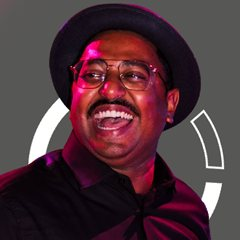
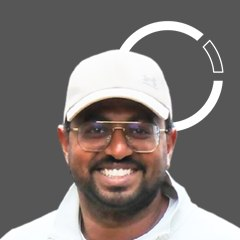
Team: new Nishaanth photo, add Marcel profile, admin-only contacts toggle; schedule reveal

diff --git a/src/ScheduleTab.jsx b/src/ScheduleTab.jsx
@@ -2,9 +2,12 @@ import React, { useState, useRef, useEffect } from 'react';
 import {
   Calendar, Clock, MapPin, PlaneTakeoff, PlaneLanding, CalendarDays, Bus,
   Utensils, Landmark, Plus, Edit3, Check, X, Trash2, Download, ArrowRight,
-  ChevronLeft, ChevronRight, ChevronDown, QrCode, BookOpen, ImagePlus, Loader2, Lightbulb,
+  ChevronLeft, ChevronRight, ChevronDown, QrCode, BookOpen, ImagePlus, Loader2, Lightbulb, Eye, EyeOff,
 } from 'lucide-react';
-import { C, MONO, TRIP_DAYS, TYPE_META, evDate, fmtDayLong, fmtDayShort, downloadICS, mapsUrl } from './constants.js';
+import {
+  C, MONO, TRIP_DAYS, TYPE_META, evDate, fmtDayLong, fmtDayShort, downloadICS, mapsUrl,
+  isRevealed, taipeiInputToIso, isoToTaipeiInput, fmtRevealAt,
+} from './constants.js';
 import { Label, AppOverlay } from './shell.jsx';
 import { downscaleImage } from './lib/image.js';
 
@@ -121,6 +124,9 @@ export function ScheduleEventModal({ initial, defaultDate, docs = [], onSave, on
   const [sponsorLogo, setSponsorLogo] = useState(initial?.sponsorLogo ? { url: initial.sponsorLogo } : null);
   const [factText, setFactText] = useState(initial?.factText || "");
   const [factImage, setFactImage] = useState(initial?.factImage ? { url: initial.factImage } : null);
+  // Sichtbarkeit: 'now' = sofort, 'at' = ab Zeitpunkt (Taiwan-Zeit), 'manual' = bis zur Freigabe versteckt
+  const [visibility, setVisibility] = useState(initial?.hidden ? "manual" : initial?.revealAt ? "at" : "now");
+  const [revealInput, setRevealInput] = useState(isoToTaipeiInput(initial?.revealAt));
   const [saving, setSaving] = useState(false);
   const [saveError, setSaveError] = useState(null);
   const input = { background: `${C.charcoal}4d`, borderColor: `${C.charcoal}80` };
@@ -146,7 +152,10 @@ export function ScheduleEventModal({ initial, defaultDate, docs = [], onSave, on
       factImage: factImage && !factImage.file ? factImage.url : undefined,
       factImagePath: factImage && !factImage.file ? initial?.factImagePath : undefined,
       factImageFile: factImage?.file,
+      hidden: visibility === "manual",
+      revealAt: visibility === "at" ? taipeiInputToIso(revealInput) : undefined,
     };
+    if (visibility === "at" && !ev.revealAt) { setSaveError("Bitte eine Freigabezeit wählen."); return; }
     setSaving(true);
     setSaveError(null);
     try {
@@ -245,6 +254,30 @@ export function ScheduleEventModal({ initial, defaultDate, docs = [], onSave, on
           <ImagePickField label="Fakt-Bild (optional)" value={factImage} onChange={setFactImage}
             prepare={(f) => downscaleImage(f, 1600, 0.85)}
             previewClass="w-12 h-16" previewStyle={{ background: "#000" }} />
+
+          <div className="space-y-1.5">
+            <p style={{ color: C.silver, fontFamily: MONO, letterSpacing: "0.15em" }} className="text-[12px] font-bold uppercase">Sichtbar für Reisende</p>
+            <div className="grid grid-cols-3 gap-1.5">
+              {[["now", "Sofort"], ["at", "Ab Zeitpunkt"], ["manual", "Manuell"]].map(([v, l]) => (
+                <button key={v} type="button" onClick={() => {
+                  setVisibility(v);
+                  if (v === "at" && !revealInput) setRevealInput(`${date}T${time}`);
+                }}
+                  style={visibility === v ? { background: C.gold, color: "#fff" } : { background: `${C.charcoal}4d`, color: C.silver }}
+                  className="py-2 rounded-xl text-[12px] font-black uppercase active:scale-95 transition">{l}</button>
+              ))}
+            </div>
+            {visibility === "at" && (
+              <>
+                <input type="datetime-local" value={revealInput} onChange={(e) => setRevealInput(e.target.value)} style={input}
+                  className="w-full border rounded-xl px-3 py-2.5 text-sm text-white focus:outline-none" />
+                <p style={{ color: C.silver }} className="text-[13px]">Uhrzeit in Taiwan-Zeit. Vorher nur für Admins sichtbar.</p>
+              </>
+            )}
+            {visibility === "manual" && (
+              <p style={{ color: C.silver }} className="text-[13px]">Bleibt versteckt, bis du am Termin „Jetzt freigeben“ tippst.</p>
+            )}
+          </div>
         </div>
 
         {saveError && <p className="text-sm" style={{ color: "#e57373" }}>{saveError}</p>}
@@ -267,8 +300,22 @@ export function ScheduleEventModal({ initial, defaultDate, docs = [], onSave, on
   );
 }
 
-export function ScheduleTab({ schedule, docs = [], onOpenDoc, isAdmin = false, onAddEvent, onUpdateEvent, onDeleteEvent }) {
+export function ScheduleTab({ schedule, docs = [], onOpenDoc, isAdmin = false, onAddEvent, onUpdateEvent, onDeleteEvent, onRevealEvents }) {
   const [day, setDay] = useState(0);
+  // Uhr für den Versteckt-Status in der Admin-Ansicht (Freigabezeit kann jederzeit verstreichen)
+  const [now, setNow] = useState(Date.now());
+  useEffect(() => {
+    const t = setInterval(() => setNow(Date.now()), 30000);
+    return () => clearInterval(t);
+  }, []);
+  const [revealing, setRevealing] = useState(false);
+  const reveal = async (ids, label) => {
+    if (revealing || !window.confirm(`${label} jetzt für alle Reisenden freigeben?`)) return;
+    setRevealing(true);
+    try { await onRevealEvents(ids); }
+    catch (e) { console.warn('[schedule]', e?.message); window.alert("Freigeben fehlgeschlagen. Bitte Verbindung prüfen."); }
+    finally { setRevealing(false); }
+  };
   const [editing, setEditing] = useState(null); // null | { mode: 'add'|'edit', event? }
   const [menuEvent, setMenuEvent] = useState(null); // Termin, dessen Menükarte offen ist
   const [factId, setFactId] = useState(null); // Termin, dessen Fakten-Box aufgeklappt ist
@@ -283,7 +330,9 @@ export function ScheduleTab({ schedule, docs = [], onOpenDoc, isAdmin = false, o
   };
   const date = TRIP_DAYS[day];
   const events = schedule.filter((e) => e.date === date).sort((a, b) => evDate(a) - evDate(b));
-  const nextId = [...schedule].sort((a, b) => evDate(a) - evDate(b)).find((x) => evDate(x) > Date.now())?.id;
+  const hiddenToday = events.filter((e) => !isRevealed(e, now));
+  // NEXT so markieren, wie Reisende es sehen — versteckte Termine zählen nicht
+  const nextId = [...schedule].filter((x) => isRevealed(x, now)).sort((a, b) => evDate(a) - evDate(b)).find((x) => evDate(x) > now)?.id;
   return (
     <div className="fadeup p-4 pb-6 space-y-5 select-none relative" onPointerDown={onDown} onPointerUp={onUp} style={{ touchAction: "pan-y" }}>
       <div className="border-b pb-4 space-y-3" style={{ borderColor: `${C.charcoal}33` }}>
@@ -323,6 +372,23 @@ export function ScheduleTab({ schedule, docs = [], onOpenDoc, isAdmin = false, o
         ))}
       </div>
 
+      {isAdmin && hiddenToday.length > 0 && (
+        <div style={{ background: `${C.charcoal}33`, borderColor: `${C.charcoal}80` }}
+          className="border border-dashed rounded-xl px-3.5 py-2.5 flex items-center justify-between gap-3">
+          <p style={{ color: C.silver }} className="text-sm flex items-center gap-2">
+            <EyeOff className="w-4 h-4 shrink-0" />
+            {hiddenToday.length === 1 ? "1 Termin" : `${hiddenToday.length} Termine`} für Reisende versteckt
+          </p>
+          {hiddenToday.length > 1 && (
+            <button onClick={() => reveal(hiddenToday.map((e) => e.id), `Alle ${hiddenToday.length} versteckten Termine von ${fmtDayShort(date)}`)}
+              disabled={revealing} style={{ color: C.gold, letterSpacing: "0.1em" }}
+              className="text-[12px] font-black uppercase shrink-0 hover:underline active:scale-95 transition disabled:opacity-50">
+              Alle freigeben
+            </button>
+          )}
+        </div>
+      )}
+
       {/* Timeline for the day */}
       <div key={`list-${date}`} className="space-y-3 fadeup">
         {events.length === 0 && (
@@ -340,9 +406,10 @@ export function ScheduleTab({ schedule, docs = [], onOpenDoc, isAdmin = false, o
           const meta = TYPE_META[e.type] || TYPE_META.activity;
           const Icon = meta.icon;
           const isNext = e.id === nextId;
+          const isHidden = !isRevealed(e, now);
           return (
-            <div key={e.id} style={{ background: C.surface, borderColor: isNext ? `${C.gold}80` : `${C.charcoal}4d` }}
-              className={`border rounded-2xl p-4 flex gap-3.5 ${isNext ? "border-2" : ""}`}>
+            <div key={e.id} style={{ background: C.surface, borderColor: isNext ? `${C.gold}80` : `${C.charcoal}${isHidden ? "99" : "4d"}` }}
+              className={`border rounded-2xl p-4 flex gap-3.5 ${isNext ? "border-2" : ""} ${isHidden ? "border-dashed" : ""}`}>
               <div className="flex flex-col items-center shrink-0">
                 <span style={{ fontFamily: MONO, color: C.gold }} className="text-sm font-black">{e.time}</span>
                 <div style={{ background: `${C.gold}1a`, borderColor: `${C.gold}40` }} className="w-11 h-11 rounded-xl border flex items-center justify-center mt-1.5">
@@ -363,6 +430,20 @@ export function ScheduleTab({ schedule, docs = [], onOpenDoc, isAdmin = false, o
                     )}
                   </div>
                 </div>
+                {isAdmin && isHidden && (
+                  <div className="mt-2 flex items-center gap-2 flex-wrap">
+                    <span style={{ background: `${C.charcoal}4d`, color: C.silver, letterSpacing: "0.08em" }}
+                      className="text-[12px] font-bold uppercase px-2 py-1 rounded-lg flex items-center gap-1.5">
+                      <EyeOff className="w-3.5 h-3.5" />
+                      {e.hidden ? "Versteckt · manuell" : `Versteckt bis ${fmtRevealAt(e.revealAt)} (TW)`}
+                    </span>
+                    <button onClick={() => reveal([e.id], `„${e.title}“`)} disabled={revealing}
+                      style={{ background: `${C.gold}1a`, borderColor: `${C.gold}40`, color: C.gold, letterSpacing: "0.1em" }}
+                      className="px-2.5 py-1 rounded-lg border text-[12px] font-black uppercase flex items-center gap-1.5 active:scale-95 transition disabled:opacity-50">
+                      <Eye className="w-3.5 h-3.5" /> Jetzt freigeben
+                    </button>
+                  </div>
+                )}
                 {e.location && (
                   <a href={mapsUrl(e.location)} target="_blank" rel="noopener noreferrer" style={{ color: C.silver }}
                     className="text-sm mt-1 flex items-center gap-1.5 underline decoration-dotted underline-offset-2 hover:text-white active:opacity-70">

diff --git a/src/App.jsx b/src/App.jsx
@@ -5,7 +5,7 @@ import {
 import {
   INITIAL_TRAVELERS, INITIAL_MESSAGES, INITIAL_PHOTOS, INITIAL_SCHEDULE,
   INITIAL_DOCS, INITIAL_HOME_TILES, INITIAL_TICKER, TILE_TEMPLATES,
-  evDate, fmtDayShort, conciergeReply, C,
+  evDate, fmtDayShort, conciergeReply, C, isRevealed,
 } from './constants.js';
 import { usePersistentState, loadValue, saveValue, removeValue, clearAll } from './storage.js';
 import {
@@ -107,7 +107,9 @@ export default function App() {
   const { data: broadcastNotifications, loading: broadcastsLoading } = useCollection('notifications', { orderBy: 'created_at', ascending: false });
 
   const [scheduleLocal, setScheduleLocal] = usePersistentState('schedule', INITIAL_SCHEDULE);
-  const { data: scheduleRemote } = useCollection('schedule', { orderBy: 'date' });
+  // pollMs: zeitgesteuert freigegebene Termine erzeugen kein Realtime-Event (die Zeile
+  // ändert sich nicht, nur RLS lässt sie ab reveal_at durch) — daher minütlich nachladen.
+  const { data: scheduleRemote } = useCollection('schedule', { orderBy: 'date', pollMs: 60000 });
   const schedule = isSupabaseConfigured
     ? scheduleRemote.map((e) => ({
         id: e.id, date: e.date, time: (e.time || '').slice(0, 5), title: e.title, location: e.location || undefined, type: e.type, docId: e.doc_id || undefined,
@@ -116,6 +118,7 @@ export default function App() {
         sponsorLogoPath: e.sponsor_logo_path || undefined, sponsorLogo: e.sponsor_logo_path ? getPublicUrl('photos', e.sponsor_logo_path) : undefined,
         factText: e.fact_text || undefined,
         factImagePath: e.fact_image_path || undefined, factImage: e.fact_image_path ? getPublicUrl('photos', e.fact_image_path) : undefined,
+        hidden: !!e.hidden, revealAt: e.reveal_at || undefined,
       }))
     : scheduleLocal;
 
@@ -527,7 +530,16 @@ export default function App() {
     date: ev.date, time: ev.time, title: ev.title, location: ev.location || null, type: ev.type, doc_id: ev.docId || null,
     menu_path: ev.menuPath || null, sponsor_name: ev.sponsorName || null, sponsor_logo_path: ev.sponsorLogoPath || null,
     fact_text: ev.factText || null, fact_image_path: ev.factImagePath || null,
+    hidden: !!ev.hidden, reveal_at: ev.revealAt || null,
   });
+  // „Jetzt freigeben“ für einen oder mehrere Termine (z.B. ganzer Tag)
+  const revealEvents = async (ids) => {
+    if (isSupabaseConfigured) {
+      await Promise.all(ids.map((id) => updateRow('schedule', id, { hidden: false, reveal_at: null })));
+      return;
+    }
+    setScheduleLocal((s) => s.map((x) => (ids.includes(x.id) ? { ...x, hidden: false, revealAt: undefined } : x)));
+  };
   // Ersetzte oder entfernte Bilder aus dem Storage löschen
   const removeStaleMedia = (prev, next) => {
     for (const key of ['menuPath', 'sponsorLogoPath', 'factImagePath']) {
@@ -644,8 +656,8 @@ export default function App() {
       <div style={{ background: C.bg }} className="relative h-full flex flex-col text-white">
         <Header notifications={notifications} onClear={clearNotifications} user={user} onLogout={logout} onUpdateAvatar={updateAvatar} />
         <main className="flex-1 min-h-0 overflow-y-auto">
-          {tab === "home" && <HomeTab setTab={setTab} broadcasts={broadcasts} messages={messages} travelers={travelers} schedule={schedule} onOpenDoc={openDoc} tiles={homeTiles} ticker={ticker} isAdmin={user.role === "admin"} onUpdateTile={updateTile} onReorderTiles={reorderTiles} onDeleteTile={deleteTile} onAddTile={addTile} onUpdateTicker={updateTicker} user={user} />}
-          {tab === "schedule" && <ScheduleTab schedule={schedule} docs={docs} onOpenDoc={openDoc} isAdmin={user.role === "admin"} onAddEvent={addEvent} onUpdateEvent={updateEvent} onDeleteEvent={deleteEvent} />}
+          {tab === "home" && <HomeTab setTab={setTab} broadcasts={broadcasts} messages={messages} travelers={travelers} schedule={schedule.filter((e) => isRevealed(e))} onOpenDoc={openDoc} tiles={homeTiles} ticker={ticker} isAdmin={user.role === "admin"} onUpdateTile={updateTile} onReorderTiles={reorderTiles} onDeleteTile={deleteTile} onAddTile={addTile} onUpdateTicker={updateTicker} user={user} />}
+          {tab === "schedule" && <ScheduleTab schedule={user.role === "admin" ? schedule : schedule.filter((e) => isRevealed(e))} docs={docs} onOpenDoc={openDoc} isAdmin={user.role === "admin"} onAddEvent={addEvent} onUpdateEvent={updateEvent} onDeleteEvent={deleteEvent} onRevealEvents={revealEvents} />}
           {tab === "documents" && <DocumentsTab user={user} docs={docs} travelers={travelers} focusId={docFocus} onAddDoc={addDoc} />}
           {tab === "chat" && <ChatTab user={user} focus={chatFocus} travelers={travelers} messages={messages} onSend={sendMessage} onRetry={retryMessage} typing={typing} onToggleReaction={toggleReaction} onMarkRead={markChannelRead} chatStart={chatStart} />}
           {tab === "photos" && <PhotosTab photos={photos} user={user} onComment={addComment} onShare={sharePhoto} onDelete={deletePhoto} />}

diff --git a/src/constants.js b/src/constants.js
@@ -27,6 +27,15 @@ export const TRIP_DAYS = ["2026-11-05", "2026-11-06", "2026-11-07", "2026-11-08"
 export const evDate = (e) => new Date(`${e.date}T${e.time}:00`);
 export const fmtDayLong = (d) => new Date(`${d}T12:00:00`).toLocaleDateString("de-DE", { weekday: "long", day: "2-digit", month: "long" });
 export const fmtDayShort = (d) => new Date(`${d}T12:00:00`).toLocaleDateString("de-DE", { weekday: "short", day: "2-digit", month: "short" });
+// Aufdecken von Programmpunkten: hidden = bis zur manuellen Freigabe versteckt,
+// revealAt = ISO-Zeitpunkt, ab dem der Termin automatisch sichtbar ist.
+export const isRevealed = (e, now = Date.now()) => !e.hidden && (!e.revealAt || new Date(e.revealAt).getTime() <= now);
+// Freigabezeit wird in Taiwan-Zeit eingegeben/angezeigt (UTC+8, keine Sommerzeit) —
+// egal ob das Admin-Gerät gerade in Deutschland oder Taipeh ist.
+export const TAIPEI_TZ = "Asia/Taipei";
+export const taipeiInputToIso = (v) => (v ? new Date(`${v}:00+08:00`).toISOString() : null);
+export const isoToTaipeiInput = (iso) => (iso ? new Date(new Date(iso).getTime() + 8 * 3600000).toISOString().slice(0, 16) : "");
+export const fmtRevealAt = (iso) => new Date(iso).toLocaleString("de-DE", { timeZone: TAIPEI_TZ, weekday: "short", day: "2-digit", month: "2-digit", hour: "2-digit", minute: "2-digit" });
 export const TYPE_META = {
   flight: { icon: PlaneTakeoff, label: "Flug" },
   arrival: { icon: PlaneLanding, label: "Ankunft" },
@@ -114,13 +123,22 @@ export const TEAM_MEMBERS = [
       ["Application Area", "Indoor/Outdoor – Lesen + Fahrrad fahren + Kohlenhydratkonsum (am besten alles gleichzeitig)"],
     ],
   },
+  {
+    id: "marcel", name: "Marcel Schmidt", role: "Director Sales • LANG BARANDAY AG",
+    photo: "/team/marcel.jpg", face: "/team/marcel-face.jpg",
+    phone: "+41 78 644 57 81",
+    facts: [
+      ["Run time", "Seit 2019 bei LANG BARANDAY AG"],
+      ["Refresh Rate", "Wenn's kein Flackern hat, kanns kein LED sein"],
+      ["Power Source", "In der Ruhe liegt die Kraft"],
+      ["Konfiguration", "Am liebsten im Team – auf der Arbeit und auf dem Fußballplatz"],
+      ["Area of Application", "Die Kollegen und die Familie sind immer Heimspiel"],
+    ],
+  },
 ];
 
 /* Kontakt-Modus der Team-Kachel: alle Team-Mitglieder + weitere Ansprechpartner ohne Steckbrief */
-export const TEAM_CONTACTS = [
-  ...TEAM_MEMBERS,
-  { id: "marcel", name: "Marcel Schmidt", phone: "+41 78 644 57 81" },
-];
+export const TEAM_CONTACTS = [...TEAM_MEMBERS];
 
 const TEAM_TILE_DEFAULT = () => ({
   label: "Meet the Team",

diff --git a/src/HomeTab.jsx b/src/HomeTab.jsx
@@ -411,7 +411,7 @@ export function InfoTileCard({ data }) {
 }
 
 // Steckbriefe bis Reisetag 2, danach Kontakte (Portrait-Bubbles, Antippen zeigt Nummer + Anruf/WhatsApp).
-// Umschalter: für Admins immer (Vorschau), für Reisende erst ab dem Kontakt-Datum.
+// Umschalter nur für Admins; Reisende sehen den Modus laut Kachel-Einstellung.
 export function TeamCard({ data, onOpen, isAdmin }) {
   const autoContacts = isTeamContactMode(data);
   const [contacts, setContacts] = useState(autoContacts);
@@ -427,7 +427,7 @@ export function TeamCard({ data, onOpen, isAdmin }) {
   const [openId, setOpenId] = useState(null);
   const openContact = TEAM_CONTACTS.find((m) => m.id === openId);
 
-  const toggle = (isAdmin || autoContacts) && (
+  const toggle = isAdmin && (
     <div style={{ background: `${C.charcoal}66` }} className="ml-auto flex p-0.5 rounded-lg">
       {tab(!contacts, "Steckbriefe", () => setContacts(false))}
       {tab(contacts, "Kontakte", () => setContacts(true))}
@@ -498,7 +498,7 @@ export function TeamCard({ data, onOpen, isAdmin }) {
         </>
       ) : (
         <>
-          <div className="grid grid-cols-5 gap-2 relative">
+          <div className="grid grid-cols-6 gap-2 relative">
             {TEAM_MEMBERS.map((m) => (
               <button key={m.id} onClick={() => onOpen?.(m.id)} disabled={!onOpen}
                 className="flex flex-col items-center gap-1.5 min-w-0 active:scale-95 transition">
